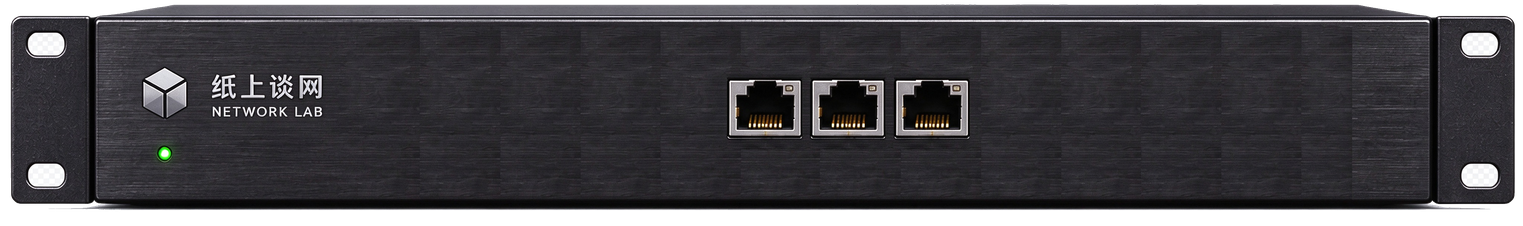
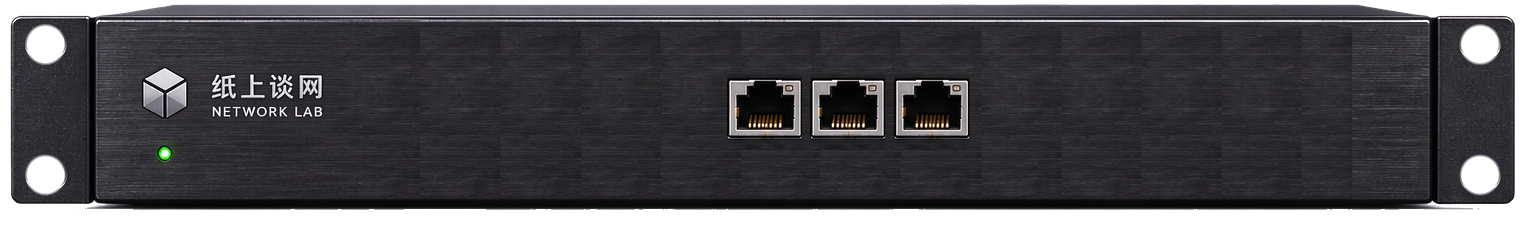
feat: 路由器选口展示解包步骤并去掉机箱挂耳白底
模拟选口对话框改为解包三步，右侧附端口地址表；交换机与路由器挂耳孔和底边白底改为透明。

diff --git a/web/shared/workbench.ts b/web/shared/workbench.ts
@@ -233,7 +233,7 @@ function routerBench(screen: ClaimedScreen): string {
   return `
     <section class="bench" data-role="router">
       ${arpTable(screen)}
-      ${frameCard(screen.frame, "router")}
+      ${screen.mode === "simulation" ? "" : frameCard(screen.frame, "router")}
       ${screen.mode === "simulation" && screen.frame ? forwardForm(screen) : ""}
       ${notice(screen.notice)}
     </section>
@@ -371,12 +371,35 @@ function macTableRows(screen: ClaimedScreen, highlightMac?: string): string {
 
 function switchMacLookup(screen: ClaimedScreen, dstMac?: string): string {
   return `
-    <aside class="fwd-mac" aria-label="MAC 地址表">
+    <aside class="fwd-mac fwd-lookup" aria-label="MAC 地址表">
       <h4>MAC 地址表</h4>
       <div class="mac-scroll">
         <table class="mac-table">
           <thead><tr><th>端口</th><th>MAC</th></tr></thead>
           <tbody>${macTableRows(screen, dstMac)}</tbody>
+        </table>
+      </div>
+    </aside>`;
+}
+
+function routerPortLookup(screen: ClaimedScreen, dstIp?: string): string {
+  const rows = screen.device.ports;
+  const body = rows.length
+    ? rows
+        .map((port) => {
+          const ip = port.ip || "";
+          const match = Boolean(dstIp) && Boolean(ip) && sameCClass(ip, dstIp || "");
+          return `<tr${match ? ' data-hit="true"' : ""}><td>${escapeHtml(port.id)}</td><td>${escapeHtml(ip || "未配置")}</td></tr>`;
+        })
+        .join("")
+    : `<tr><td colspan="2">暂无</td></tr>`;
+  return `
+    <aside class="fwd-lookup" aria-label="端口地址表">
+      <h4>端口地址表</h4>
+      <div class="mac-scroll">
+        <table class="mac-table">
+          <thead><tr><th>端口</th><th>IP</th></tr></thead>
+          <tbody>${body}</tbody>
         </table>
       </div>
     </aside>`;
@@ -388,7 +411,9 @@ function forwardForm(screen: ClaimedScreen): string {
   const frame = screen.frame;
   const pending = frame ? [frame, ...screen.frameQueue] : screen.frameQueue;
   const byMac = kind === "switch";
+  const byIp = kind === "router";
   const hint = byMac ? "根据目的 MAC 选择转发端口" : "根据目的 IP 选择转发端口";
+  const lookup = byMac ? "mac" : byIp ? "ip" : "";
   const queue = `
     <aside class="fwd-queue" aria-label="待转发帧">
       <h4>待转发帧</h4>
@@ -419,16 +444,20 @@ function forwardForm(screen: ClaimedScreen): string {
     : "";
   return `
     <div class="dlg-backdrop" data-open="true">
-      <form class="forward-form dlg"${byMac ? ' data-lookup="mac"' : ""}>
+      <form class="forward-form dlg"${lookup ? ` data-lookup="${lookup}"` : ""}>
         <header class="dlg-hd" data-fwd-drag>
           <h3>转发数据帧</h3>
           <span class="mode-pill">模拟选口 · ${escapeHtml(screen.device.id)}</span>
         </header>
-        <div class="fwd-body"${byMac ? ' data-lookup="mac"' : ""}>
+        <div class="fwd-body"${lookup ? ` data-lookup="${lookup}"` : ""}>
           ${queue}
           <div class="fwd-main">
             <p class="dlg-sub">${hint}</p>
-            ${frameRows}
+            ${
+              byIp && frame
+                ? `<p class="frame-note">解包查看目的 IP，再重新打包转发</p>${routerFrameSteps(frame)}`
+                : frameRows
+            }
             <p>选择出端口</p>
             <div class="fwd-grid">
               ${ports
@@ -441,7 +470,7 @@ function forwardForm(screen: ClaimedScreen): string {
             ${screen.notice === "端口不正确" ? `<p class="notice wrong-port">端口不正确</p>` : ""}
             <p class="hint">选错口时提示「端口不正确」；帧留在本机</p>
           </div>
-          ${byMac ? switchMacLookup(screen, frame?.dst_mac) : ""}
+          ${byMac ? switchMacLookup(screen, frame?.dst_mac) : byIp ? routerPortLookup(screen, frame?.dst_ip) : ""}
         </div>
       </form>
     </div>

diff --git a/web/student/src/style.css b/web/student/src/style.css
@@ -1234,7 +1234,7 @@ main {
   min-width: 0;
   overflow: hidden;
 }
-.forward-form.dlg[data-lookup="mac"] {
+.forward-form.dlg[data-lookup] {
   width: min(1100px, 100%);
 }
 .dlg-backdrop:has(.forward-form) {
@@ -1255,12 +1255,14 @@ main {
   align-items: start;
   min-width: 0;
 }
-.fwd-body[data-lookup="mac"] {
+.fwd-body[data-lookup] {
   grid-template-columns: minmax(150px, 200px) minmax(0, 1fr) minmax(210px, 280px);
 }
 .fwd-main {
   min-width: 0;
-  overflow: hidden;
+  overflow-x: hidden;
+  overflow-y: auto;
+  max-height: min(68vh, 620px);
 }
 .fwd-queue {
   border-right: 1px solid var(--line);
@@ -1308,21 +1310,25 @@ main {
 .fwd-q-empty {
   color: var(--muted);
 }
-.fwd-mac {
+.fwd-mac,
+.fwd-lookup {
   border-left: 1px solid var(--line);
   padding-left: 14px;
   min-width: 0;
 }
-.fwd-mac h4 {
+.fwd-mac h4,
+.fwd-lookup h4 {
   margin: 0 0 10px;
   color: var(--cyan);
   font-size: 0.92rem;
 }
-.fwd-mac .mac-scroll {
+.fwd-mac .mac-scroll,
+.fwd-lookup .mac-scroll {
   flex: none;
   max-height: min(42vh, 380px);
 }
-.fwd-mac .mac-table tr[data-hit="true"] td {
+.fwd-mac .mac-table tr[data-hit="true"] td,
+.fwd-lookup .mac-table tr[data-hit="true"] td {
   color: var(--cyan);
   background: rgba(34, 211, 238, 0.12);
 }
@@ -1341,10 +1347,11 @@ main {
   }
 }
 @media (max-width: 900px) {
-  .fwd-body[data-lookup="mac"] {
+  .fwd-body[data-lookup] {
     grid-template-columns: 1fr;
   }
-  .fwd-mac {
+  .fwd-mac,
+  .fwd-lookup {
     border-left: 0;
     border-top: 1px solid var(--line);
     padding-left: 0;

diff --git a/docs/08-前端修订记录.md b/docs/08-前端修订记录.md
@@ -661,3 +661,38 @@
 - 路由器选口对话框不附 MAC 表。
 
 实现：`web/shared/workbench.ts`；`web/student/src/style.css`。
+
+## 62. 路由器模拟选口对话框附端口地址表
+
+记录日期：2026-10-04
+
+落地：
+
+- 模拟模式下路由器学生按目的 IP 的 C 类网段选出口。转发对话框右侧增加「端口地址表」（端口 / IP），与本机接口地址同源。
+- 当前帧目的 IP 与某口同网段时，该行高亮（`data-hit`）。
+- 交换机选口对话框仍附 MAC 地址表，不附端口地址表。
+
+实现：`web/shared/workbench.ts`；`web/student/src/style.css`。
+
+## 63. 路由器解包步骤移入选口对话框
+
+记录日期：2026-10-04
+
+落地：
+
+- 模拟模式下路由器工作台不再展示「网络帧」卡片。
+- 选口对话框中间改为解包 / 网络层 / 重新打包三步，替换原来的模拟帧字段表。
+- 交换机选口对话框仍用原来的帧字段表。
+
+实现：`web/shared/workbench.ts`；`web/student/src/style.css`。
+
+## 64. 交换机与路由器挂耳孔去白
+
+记录日期：2026-10-05
+
+落地：
+
+- `switch.png` / `router.png` 挂耳四个圆孔内的实心白底改为透明，金属环保留。
+- 交换机底边残留白边清掉；耳板与面板交接处的白点一并去掉。
+
+实现：`assets/models/switch.png`；`assets/models/router.png`。
